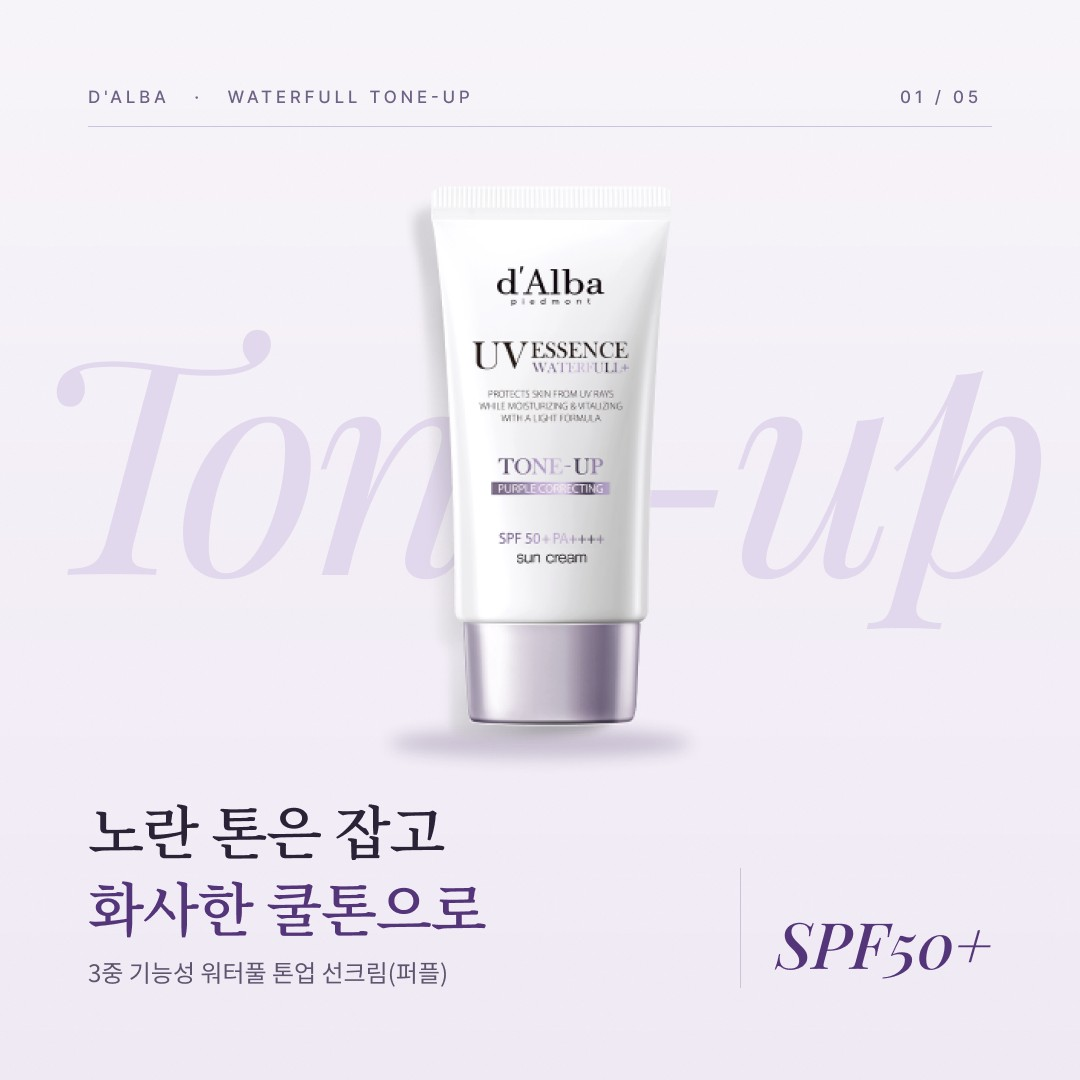
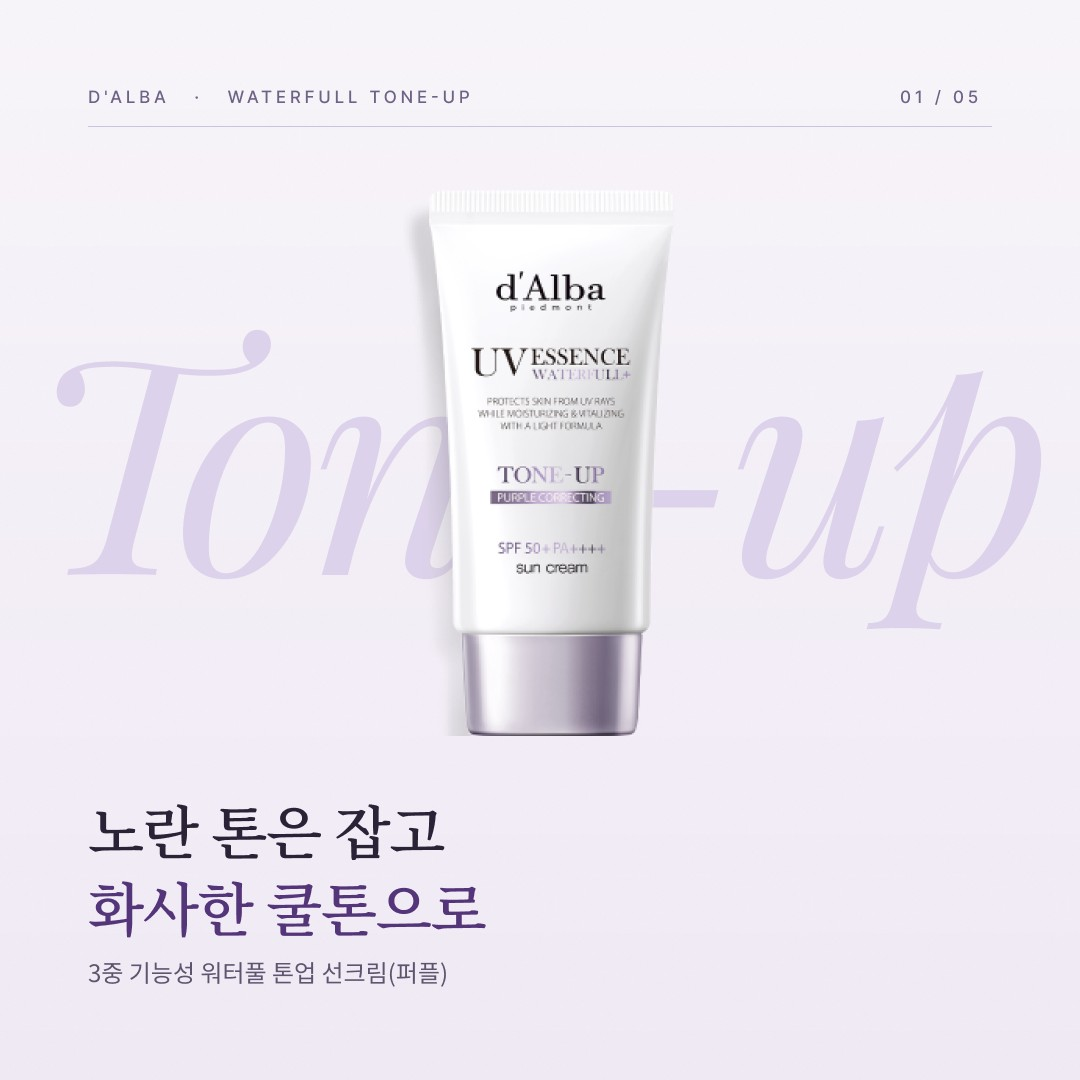
docs: 표지 방향 2차 수정 — A 그림자 정리·받침 없는 안, B 그림자·SPF 제거, C 색 보정 원
이규동 피드백 반영. 제품 사진 아래 회색 그림자를 자르는 범위(캡 끝까지)도 기록.

Claude-Session: https://claude.ai/code/session_01TCdWEcz6mcCKJ3Aw8qtjCq

Changed region(s): [[0.3667, 0.4278, 0.6417, 0.7028], [0.4278, 0.2444, 0.5806, 0.3972], [0.7028, 0.8556, 0.9167, 0.9167]]

diff --git a/docs/research/figma-cover-directions.md b/docs/research/figma-cover-directions.md
@@ -4,6 +4,20 @@
 - 피그마: [카드뉴스 피그마 출력 시험](https://www.figma.com/design/6VyvHt5Q6SN6swpeSq3fqp) → `표지 방향 (10.29)` 페이지 (편집 가능한 레이어)
 - 앞 단계: [피그마 출력 시험](figma-render-test.md) — 출력 방식은 HTML 유지, 피그마는 디자인·연출 자산 제작에 쓰는 방향으로 정리
 
+## 2차 수정 (2026-10-29, 이규동 피드백 반영)
+
+![2차 비교](figma-cover-directions/compare-v2.jpg)
+
+| 피드백 | 반영 |
+|---|---|
+| A: 원형 받침 위인데 제품 아래 그림자가 어색함 | 원인 2가지를 고침 — ① 제품 사진 아래에 붙어 있던 회색 그림자(원본 389~403px)를 잘라냄 ② 빛(왼쪽 위)과 반대로 떨어지던 그림자를 빼고, 받침 윗면에 닿는 접지 그림자 + 오른쪽 뒤로 흐린 그림자만 둠 → **A-1**. 받침이 없는 배경을 새로 만들어 바닥에 세우고 바닥 반사를 넣은 **A-2**도 같이 만듦 |
+| B: 다 단색인데 제품에만 그림자가 많음, 오른쪽 아래 SPF50+ 애매 | 제품 그림자(사진 속 회색 + 바닥 타원) 모두 제거, SPF50+와 세로 선 제거. 큰 단어를 아주 조금 진하게 |
+| C: 정확히 절반인 그라데이션이 애매 | 배경을 밝은 단색으로 바꾸고, 노랑(잡을 톤)·보라(보정 색) 흐린 원 두 개를 겹쳐 그 사이에 제품을 둠 → 패키지의 'PURPLE CORRECTING'(보색 보정) 개념. 제목 위·아래 배치는 유지 |
+
+공통: 모든 안에서 제품 사진 자르기를 캡 끝까지로 바꿈(`h` 0.73 → 0.703). HTML 템플릿으로 옮길 때도 같은 범위 필요(지금 `readPixels` 경계는 회색 그림자까지 포함).
+
+## 1차 시안
+
 ![비교](figma-cover-directions/compare.jpg)
 
 문구는 4개 모두 `products/dalba-toneup-purple/cards.json` 1번 그대로(제목·부제·뱃지). 추가한 글자는 패키지에 적힌 영문(`PURPLE TONE-UP`, `WATERFULL TONE-UP`)과 브랜드명뿐.
